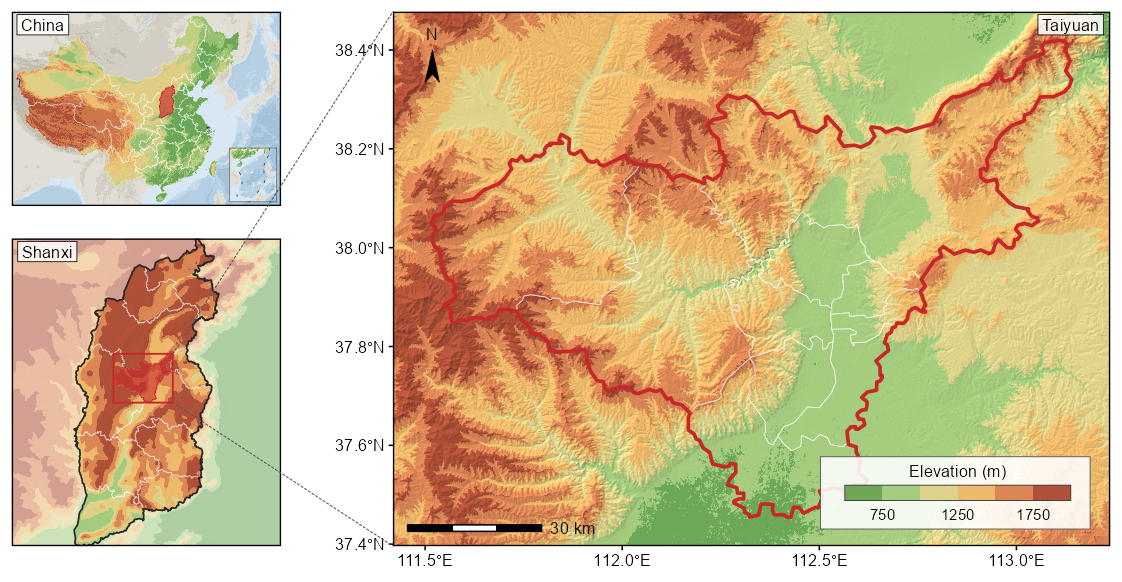
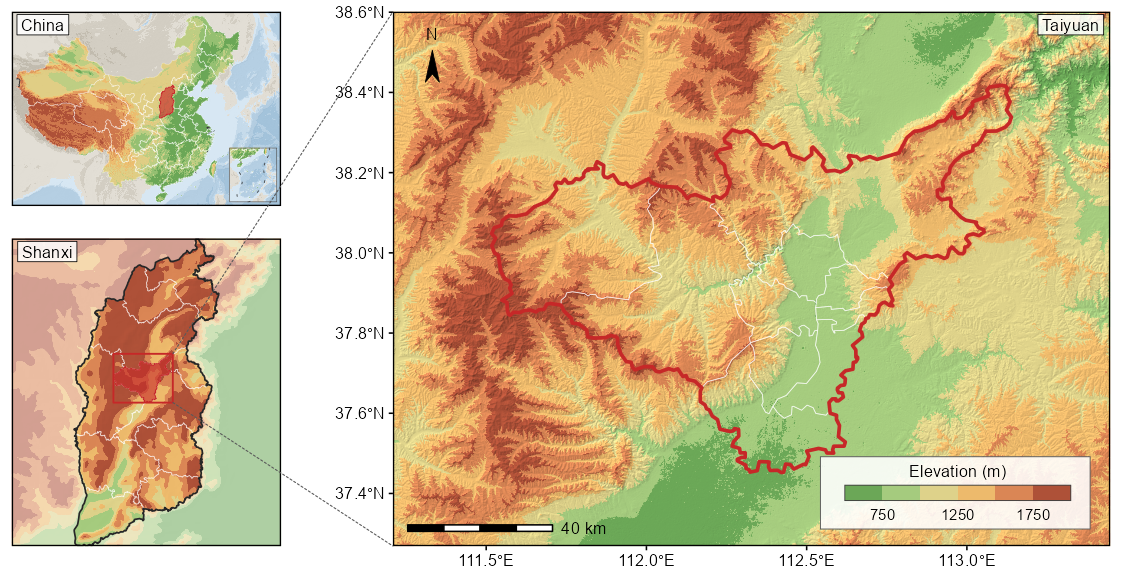
放大窗口为图面内图例让出空白；致谢补 ggmapcn
图例压住研究区边界，是窗口贴着研究区取的必然结果：没有空角可放，挪位置解决不了。
新增 pad_win() 与 pad_until_clear()，求解使图例区不压研究区的最小外扩比例，按各自
跨度成比例外扩，长宽比不漂移、由它推出的面板高度也不受影响。三个示例的太原窗口
由 6% 定到 19%。

文档同时给出另一条路：把图例移到图框外，两者都成立。

致谢加入 ggmapcn（国家级面板的 GEBCO 底图经该包获取）。

diff --git a/SKILL.md b/SKILL.md
@@ -366,6 +366,14 @@ assert_inside(c(0.598, 0.977), c(0.030, 0.148), what = "legend backing")
 
 Express furniture positions as fractions of the window, never as absolute coordinates. Fractions survive a change of window or panel size; absolute positions silently drift off the panel the next time the extent is edited.
 
+### Zoom out to make room
+
+An in-panel legend that lands on the study area is the normal outcome of fitting the window tightly to it: a tight window has no empty corner. Nudging the legend does not help, because every corner is occupied.
+
+Widen the window instead. The region is drawn at a smaller scale and the margin that frees is what the block sits on. `pad_until_clear()` searches for the smallest padding that clears a given block, padding proportionally so the aspect ratio — and the panel height derived from it — does not drift. The Taiyuan example settles at 19%.
+
+The alternative is to move the legend outside the panel. Both are legitimate; zooming out keeps the figure to one panel, an external legend keeps the region at full size.
+
 ### Corner budget
 
 An elongated study area leaves exactly two usable corners, on the long axis's off-diagonal. Inventory them before placing anything: north arrow, scale bar, elevation ramp, symbol legend, panel tag. Group the furniture — arrow plus elevation ramp in one box, symbol legend in the other — instead of scattering four small boxes into four corners.
